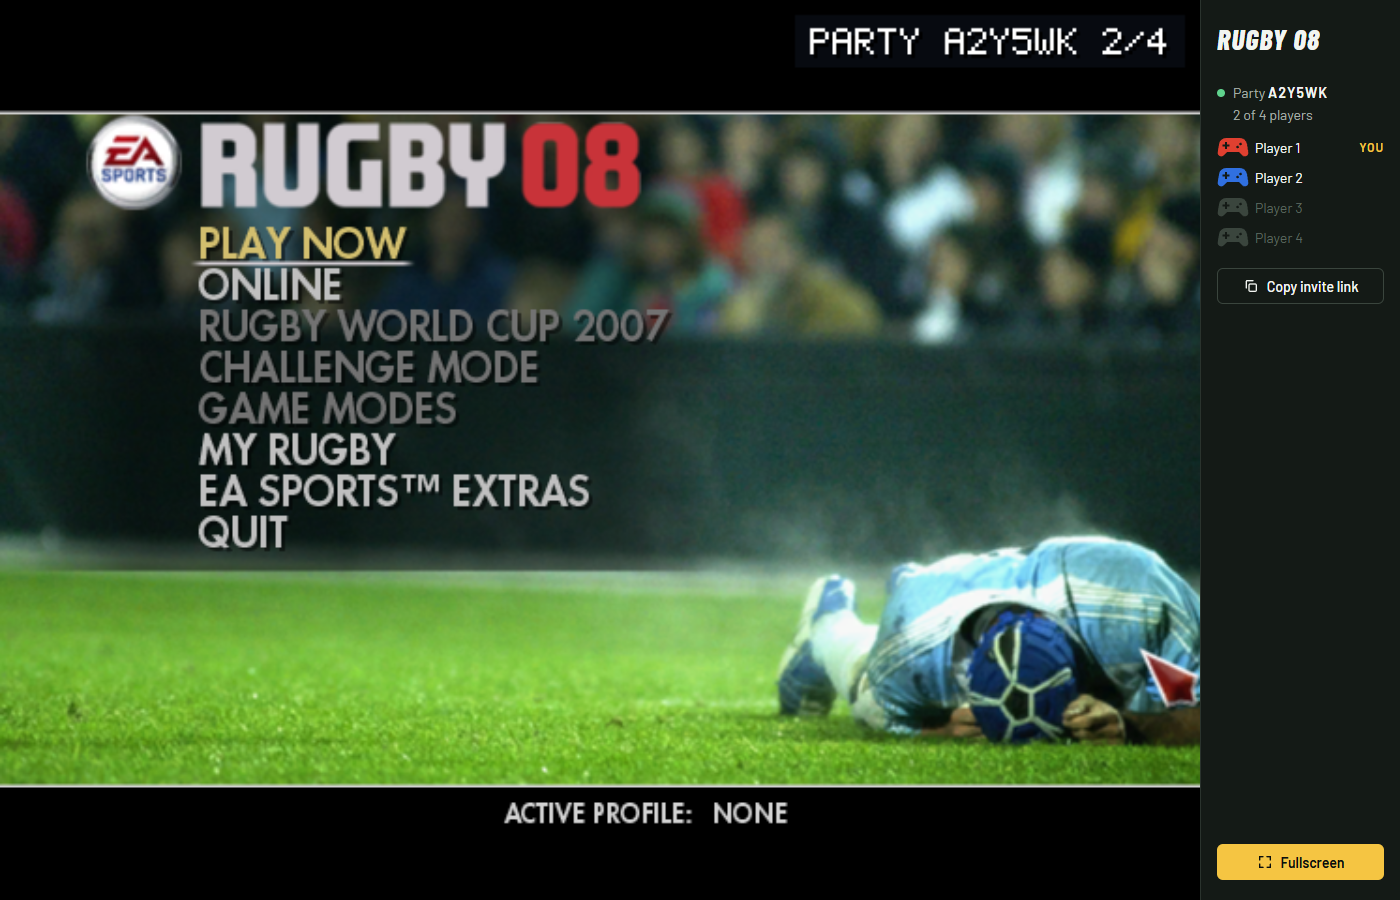
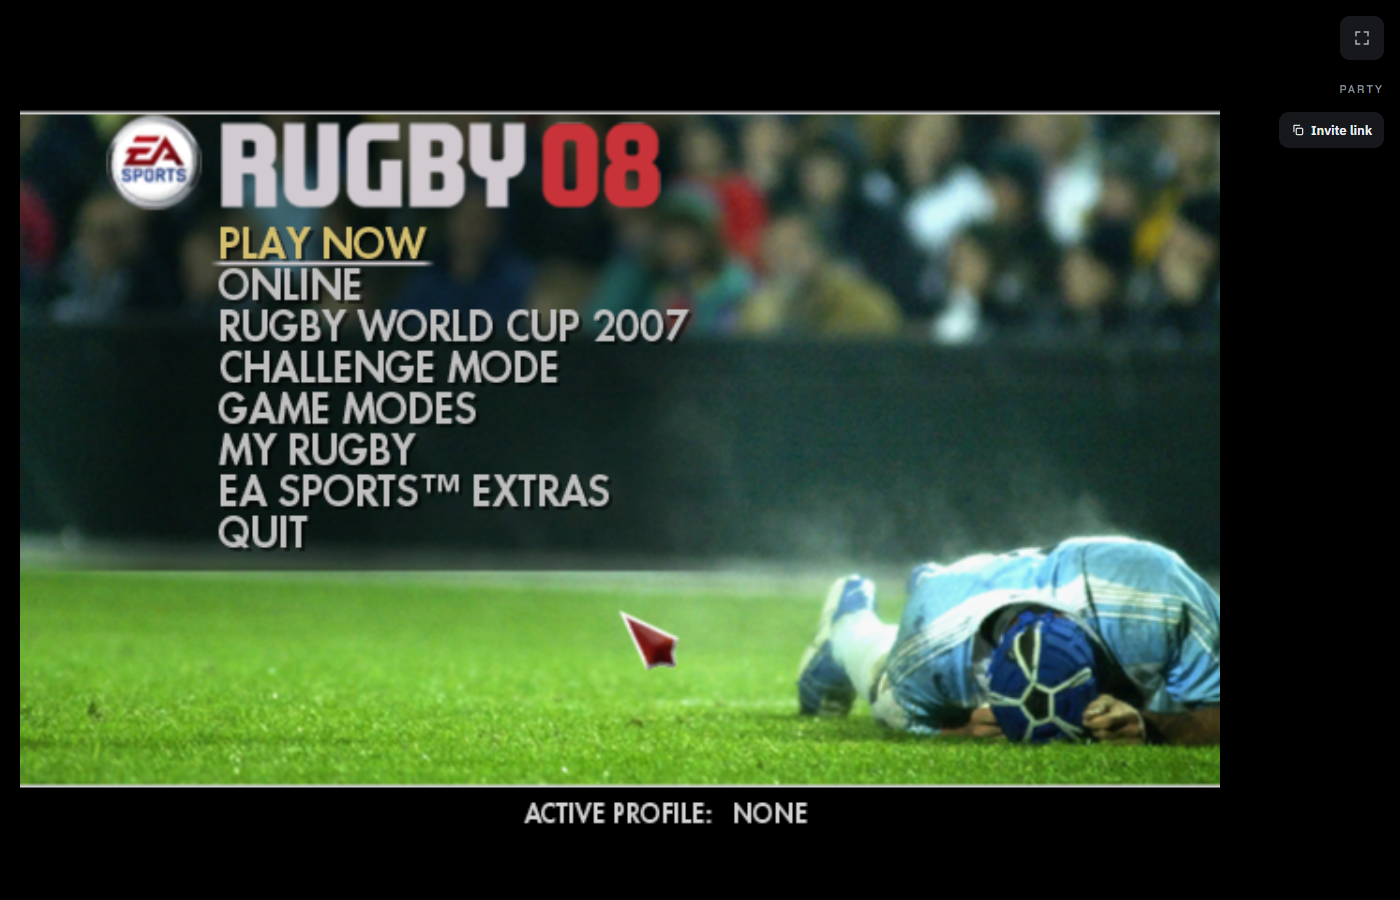
README: home and lobby screens, current play and online steps, fresh screenshots

diff --git a/README.md b/README.md
@@ -10,7 +10,7 @@ Play Rugby 08, the 2007 PC rugby game, in your browser. The original Windows gam
 
 - **The full game in a browser tab.** Menus, Play Now matches, My Rugby, intro videos, crowd and commentary audio.
 - **No emulator.** The game's own code runs as WebAssembly. There's no Wine, DOSBox or virtual machine.
-- **Online multiplayer.** Up to four players in a party, joined by an invite link, on the same team or against each other.
+- **Online multiplayer.** Up to four players in a party, joined by an invite link or a short code, on the same team or against each other.
 - **60 fps.** Frames are paced with `requestAnimationFrame`, and rendering runs on its own thread.
 - **Controller and keyboard.** Xbox-style controllers work from the start screen, and every action has a keyboard key.
 - **Installable app.** Chrome and Edge can install it to the desktop and launch it full screen.
@@ -20,7 +20,7 @@ Play Rugby 08, the 2007 PC rugby game, in your browser. The original Windows gam
 
 ## Controls
 
-A game controller is used when one is connected. Press a button on it once so the browser makes it available. It works from the start screen on: **A** presses **Play**, and on the **Play online** panel the d-pad moves between the region and the buttons, **A** presses the selected button and **B** plays offline.
+A game controller is used when one is connected. Press a button on it once so the browser makes it available. It works from the home screen on: the d-pad moves between the tiles, **A** selects, **X** changes the region and **B** plays offline. In the party lobby **A** starts the match (the host only), **X** copies the invite link and **B** goes back to the home screen.
 
 | Action | Controller |
 | :--- | :--- |
@@ -59,18 +59,24 @@ Hold a kick key to build power and steer with the arrows. In scrums, rucks, maul
 
 ### Play
 
-Open [mitchivin.github.io/rugby08](https://mitchivin.github.io/rugby08/) in Chrome or Edge on a desktop computer and press **Play**.
+Open [mitchivin.github.io/rugby08](https://mitchivin.github.io/rugby08/) in Chrome or Edge on a desktop computer. The home screen has two tiles: **Play online** and **Play offline**. Press **Play offline** to start the game on this computer. Turn on **Lite mode** there if the game runs slowly.
+
+![The home screen, with Play online and Play offline](assets/home.png)
 
 The game downloads about 1 GB on first start, then the rest while you play. Later starts are much faster. Nothing is installed and no account is needed.
 
 ### Play online
 
-1. Press **Play**. When the **Play online** panel appears, pick your region (Australia / Pacific, North America or Europe) and press **Play online**. **Play offline** skips this.
-2. You are now hosting a party. Press **Copy invite link** and send it to up to three friends.
-3. Each friend opens the link and presses **Play online**. Their game catches up to yours behind the **Joining the party** screen, then they are in.
-4. On **Team Select**, each player moves their controller icon to a side. Players on the same side play together.
+1. On the home screen, check the region chip. It is picked from your location, and you can change it (Australia / Pacific, North America or Europe) with **X** or a click. Press **Play online**.
+2. You are now hosting a party, with a six-character code. Press **Copy invite link** and send it to up to three friends.
+3. Each friend opens the link and lands in the same lobby. They can also open the site, press **Play online** and type your code in the **Join** box. Every player's game downloads in the lobby, and the host's **Start match** opens when every game is ready.
+4. The host presses **Start match**. Every game starts together, on **Team Select**. Each player moves their controller icon to a side, and players on the same side play together.
 
-Every game in the party runs the same simulation in lockstep and the games compare their state as they go, so everyone sees the same match. Players connect to each other directly where they can and through a relay where they can't. If the connection drops, your game carries on offline.
+![The party lobby, with the code, the players and Start match](assets/lobby.png)
+
+Every game in the party runs the same simulation in lockstep and the games compare their state as they go, so everyone sees the same match. Players connect to each other directly where they can and through a relay where they can't.
+
+If someone's connection drops, the others wait a few seconds and then the computer plays that player while their page reconnects. They get their own player back when they return, even after a refresh. After three drops in ten minutes, or once the party has ended, they play on alone. A friend who opens the link after the match has started catches up to it.
 
 ### Requirements
 
